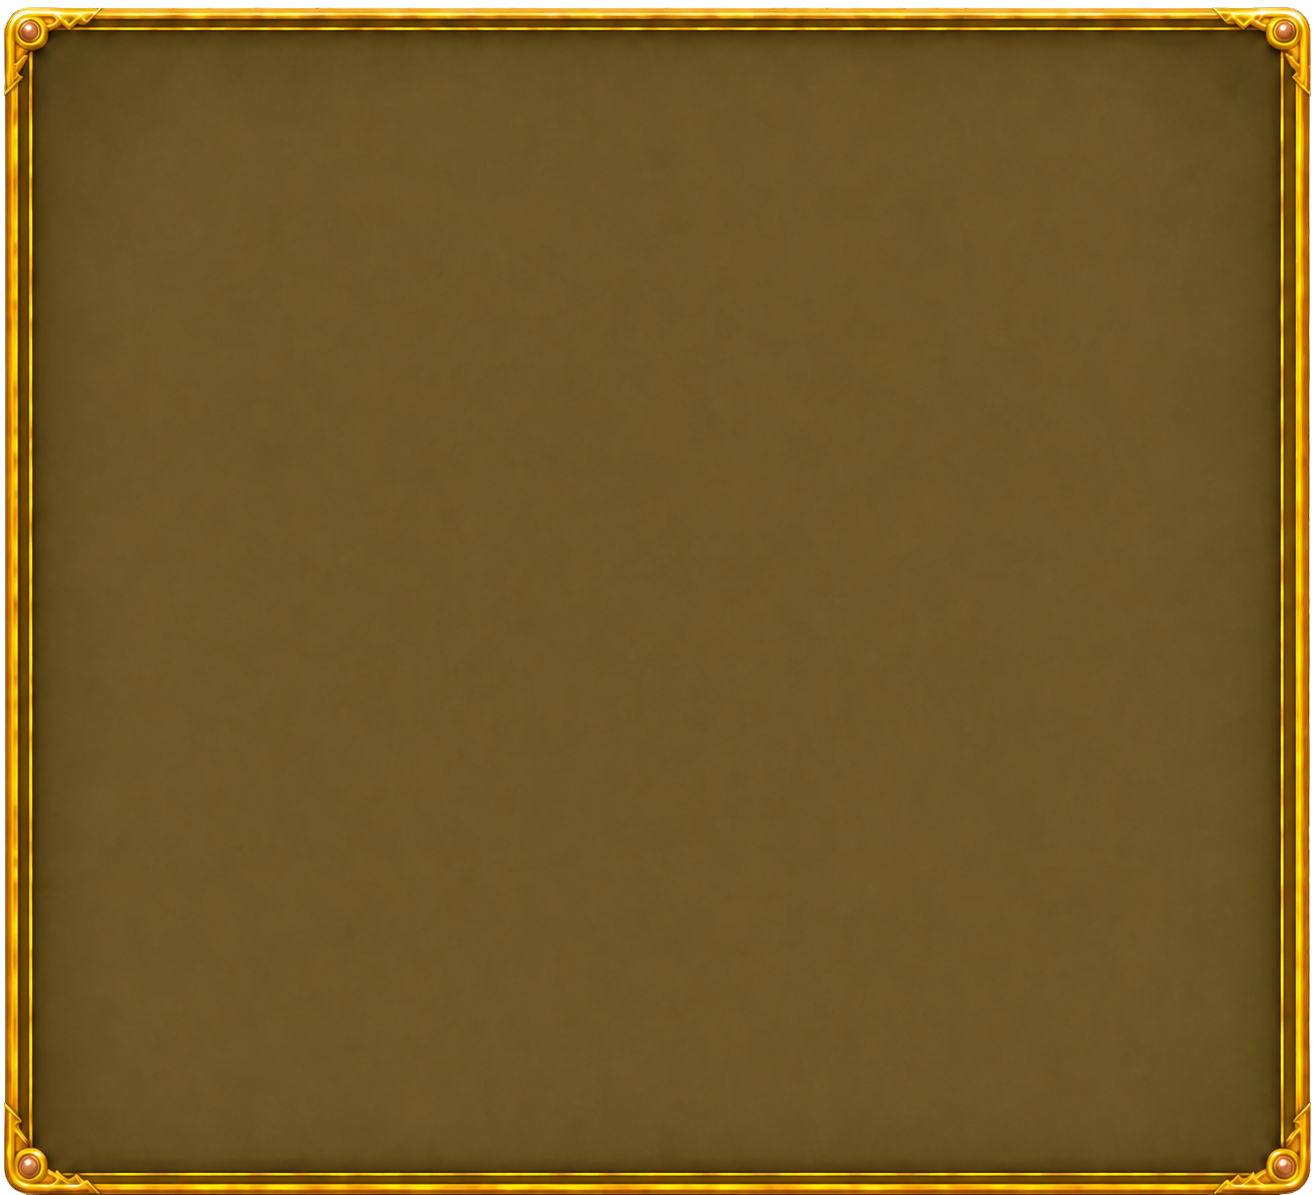
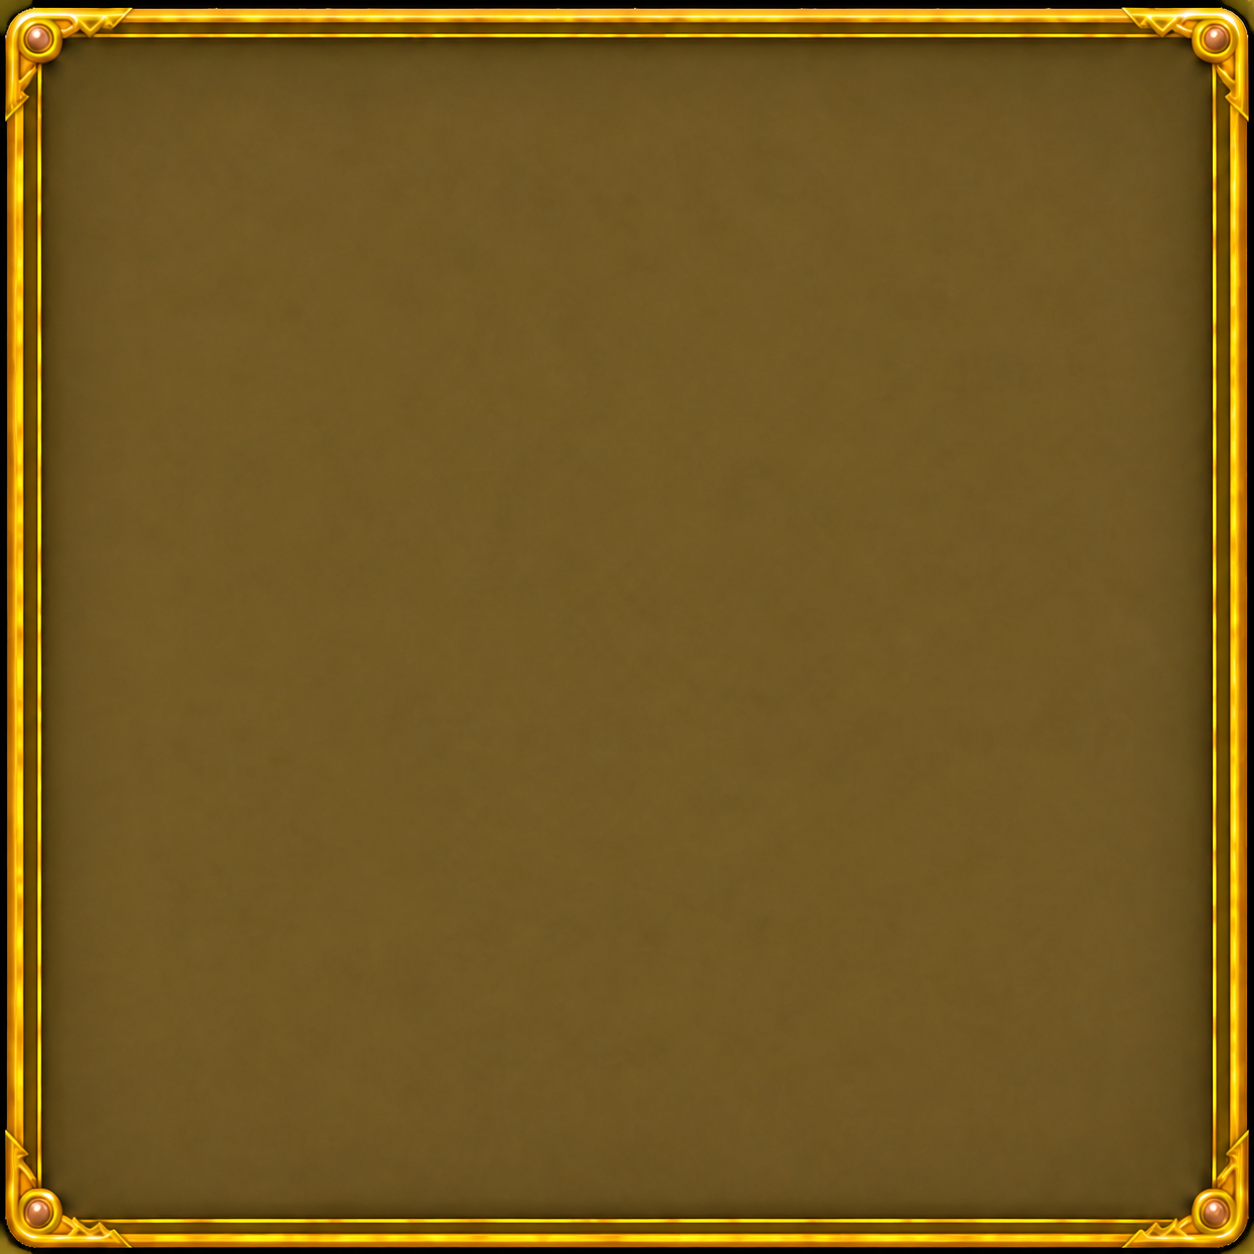
fix(war-god): sharpen board rendering and assets

Changed region(s): [[0.0, 0.0, 1.0, 1.0]]

diff --git a/game/war-god/screens/battle/index.ts b/game/war-god/screens/battle/index.ts
@@ -159,6 +159,7 @@ function pos(i: number): { x: number; y: number } {
 
 function makeSelector(url: string): Sprite {
   const s = new Sprite(tex[url]);
+  s.roundPixels = true;
   s.visible = false;
   return s;
 }
@@ -184,18 +185,22 @@ function placeHint(): void {
 
 function rebuildBoardVisuals(): void {
   const boardW = tileSize * GRID;
-  boardFrame.width = boardW * 1.1;
-  boardFrame.height = boardW * 1.1;
+  const frameOverhang = Math.round(boardW * 0.05);
+  const frameSize = boardW + frameOverhang * 2;
+  boardFrame.width = frameSize;
+  boardFrame.height = frameSize;
   boardFrame.x = boardW / 2;
   boardFrame.y = boardW / 2;
+  const cellInset = Math.max(1, Math.round(tileSize * 0.015));
   cellLayer.removeChildren().forEach((c) => c.destroy());
   for (let i = 0; i < CELLS; i++) {
     const cell = new Sprite(tex[A.board.cell]);
     const p = pos(i);
-    cell.width = tileSize * 0.97;
-    cell.height = tileSize * 0.97;
-    cell.x = p.x + tileSize * 0.015;
-    cell.y = p.y + tileSize * 0.015;
+    cell.roundPixels = true;
+    cell.width = tileSize - cellInset * 2;
+    cell.height = tileSize - cellInset * 2;
+    cell.x = p.x + cellInset;
+    cell.y = p.y + cellInset;
     cellLayer.addChild(cell);
   }
   boardMask
@@ -258,6 +263,7 @@ function clearHint(): void {
 function makeTile(type: TileType, index: number): Container {
   const c = new Container();
   const icon = new Sprite(tex[A.items[type]]);
+  icon.roundPixels = true;
   icon.anchor.set(0.5);
   icon.scale.set(tileIconBaseScale(icon));
   icon.x = tileSize / 2;
@@ -1521,6 +1527,7 @@ export function buildBattleScreen(root: Container, battleDeps: BattleDeps): void
 
   boardBox = new Container();
   boardFrame = new Sprite(tex[A.board.frame]);
+  boardFrame.roundPixels = true;
   boardFrame.anchor.set(0.5);
   boardBox.addChild(boardFrame);
 

diff --git a/game/war-god/assets.ts b/game/war-god/assets.ts
@@ -173,6 +173,15 @@ export const tex: Record<string, Texture> = new Proxy(textureCache as Record<str
 });
 let ultTexturePromise: Promise<Texture> | null = null;
 
+function configureBoardTexture(texture: Texture): void {
+  // These sprites are fixed-size, front-facing UI. Sampling the original with
+  // bilinear filtering stays crisp at the renderer's DPR; generated mipmaps
+  // prefilter away the thin painted outlines and make every board item soft.
+  texture.source.magFilter = 'linear';
+  texture.source.minFilter = 'linear';
+  texture.source.autoGenerateMipmaps = false;
+}
+
 function withoutDeferredAssets(): Omit<typeof A, 'fx'> {
   const { fx: _deferred, ...startupAssets } = A;
   return startupAssets;
@@ -189,6 +198,15 @@ export async function loadAssets(): Promise<void> {
     robotoFont.load().then((f) => document.fonts.add(f)),
   ]);
   Object.assign(textureCache, loaded);
+
+  const scaledUrls = [
+    A.board.frame,
+    A.board.cell,
+    A.board.selMine,
+    A.board.selFoe,
+    ...Object.values(A.items),
+  ];
+  scaledUrls.forEach((url) => configureBoardTexture(texture(url)));
 }
 
 export function loadUltTexture(): Promise<Texture> {

diff --git a/game/war-god/main.ts b/game/war-god/main.ts
@@ -38,6 +38,11 @@ let lobbyBox: Container;
 let designH = 980;
 let safeTop = 0;
 let safeBottom = 0;
+
+function displayResolution(): number {
+  return Math.max(1, window.devicePixelRatio || 1);
+}
+
 const sessionController = createSessionController({
   setConnecting: lobbySetConnecting,
   setReady: lobbySetReady,
@@ -69,6 +74,10 @@ function layout(): void {
   readSafeInsets();
   const winW = window.innerWidth;
   const winH = window.innerHeight;
+  const resolution = displayResolution();
+  if (app.renderer.resolution !== resolution) {
+    app.renderer.resolution = resolution;
+  }
   const scale = Math.min(winW, DESIGN_W) / DESIGN_W;
   designH = winH / scale;
   const insetTop = Math.round(safeTop / scale);
@@ -105,8 +114,9 @@ async function main(): Promise<void> {
     resizeTo: window,
     backgroundColor: 0x141428,
     antialias: true,
-    resolution: window.devicePixelRatio || 1,
+    resolution: displayResolution(),
     autoDensity: true,
+    roundPixels: true,
     preference: 'webgl',
   });
   document.getElementById('app')!.appendChild(app.canvas);
